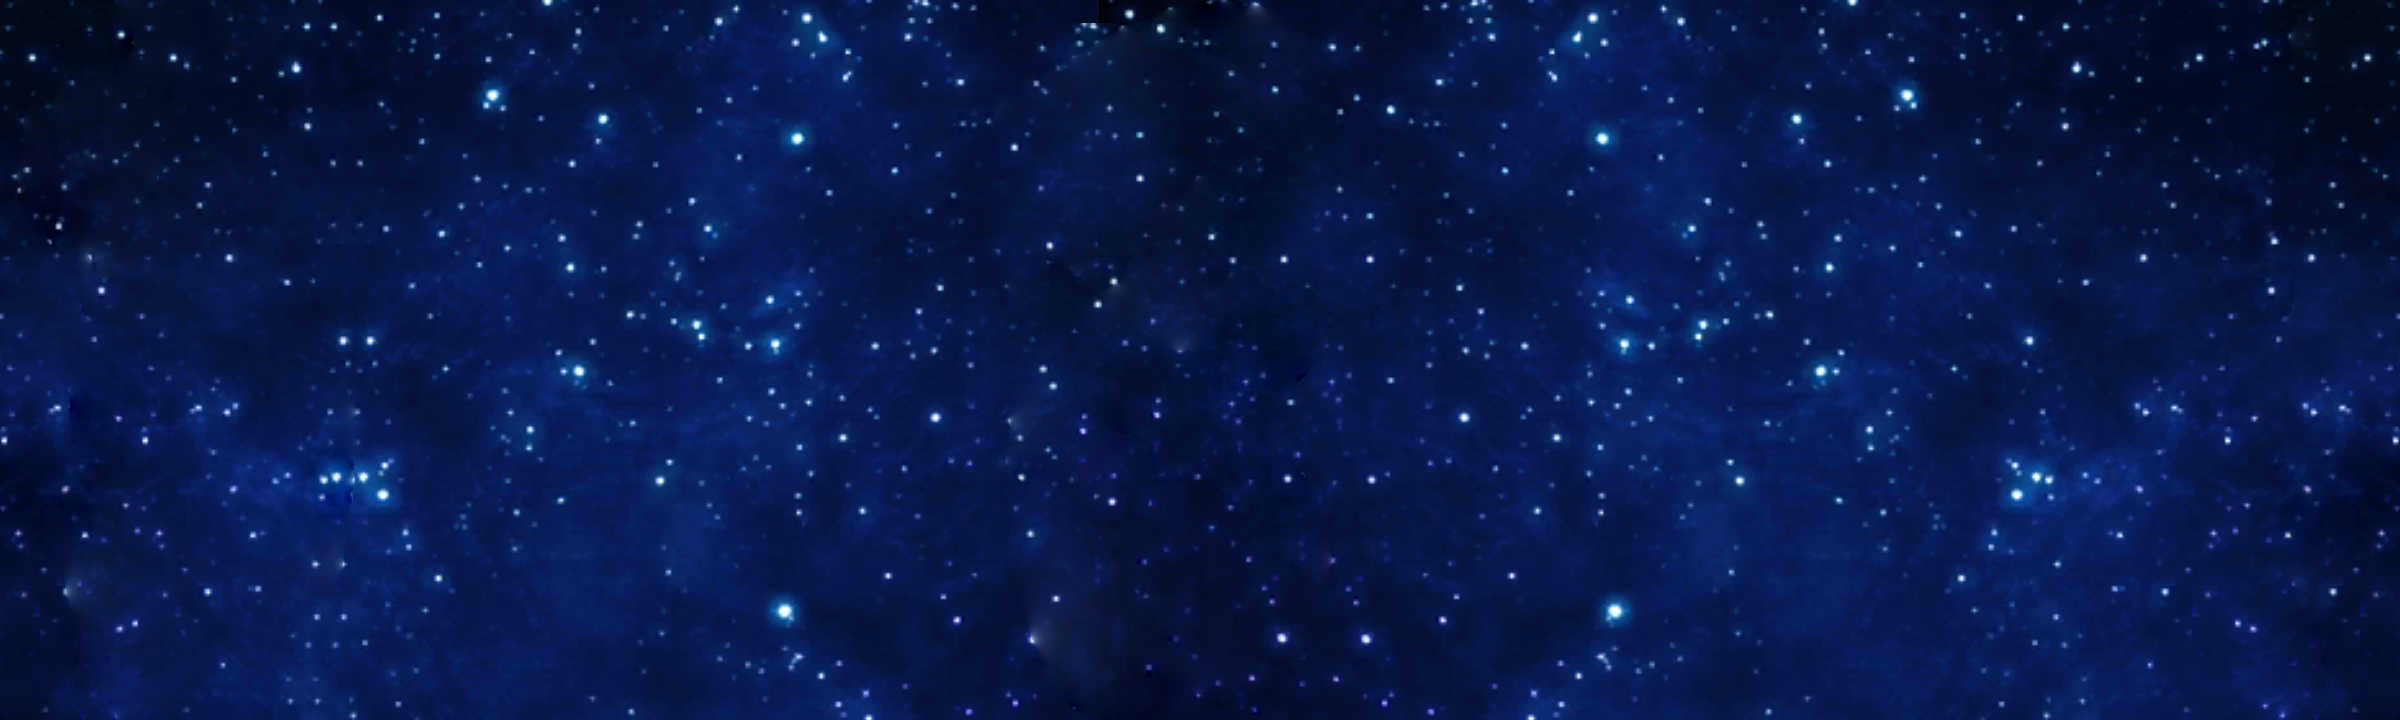
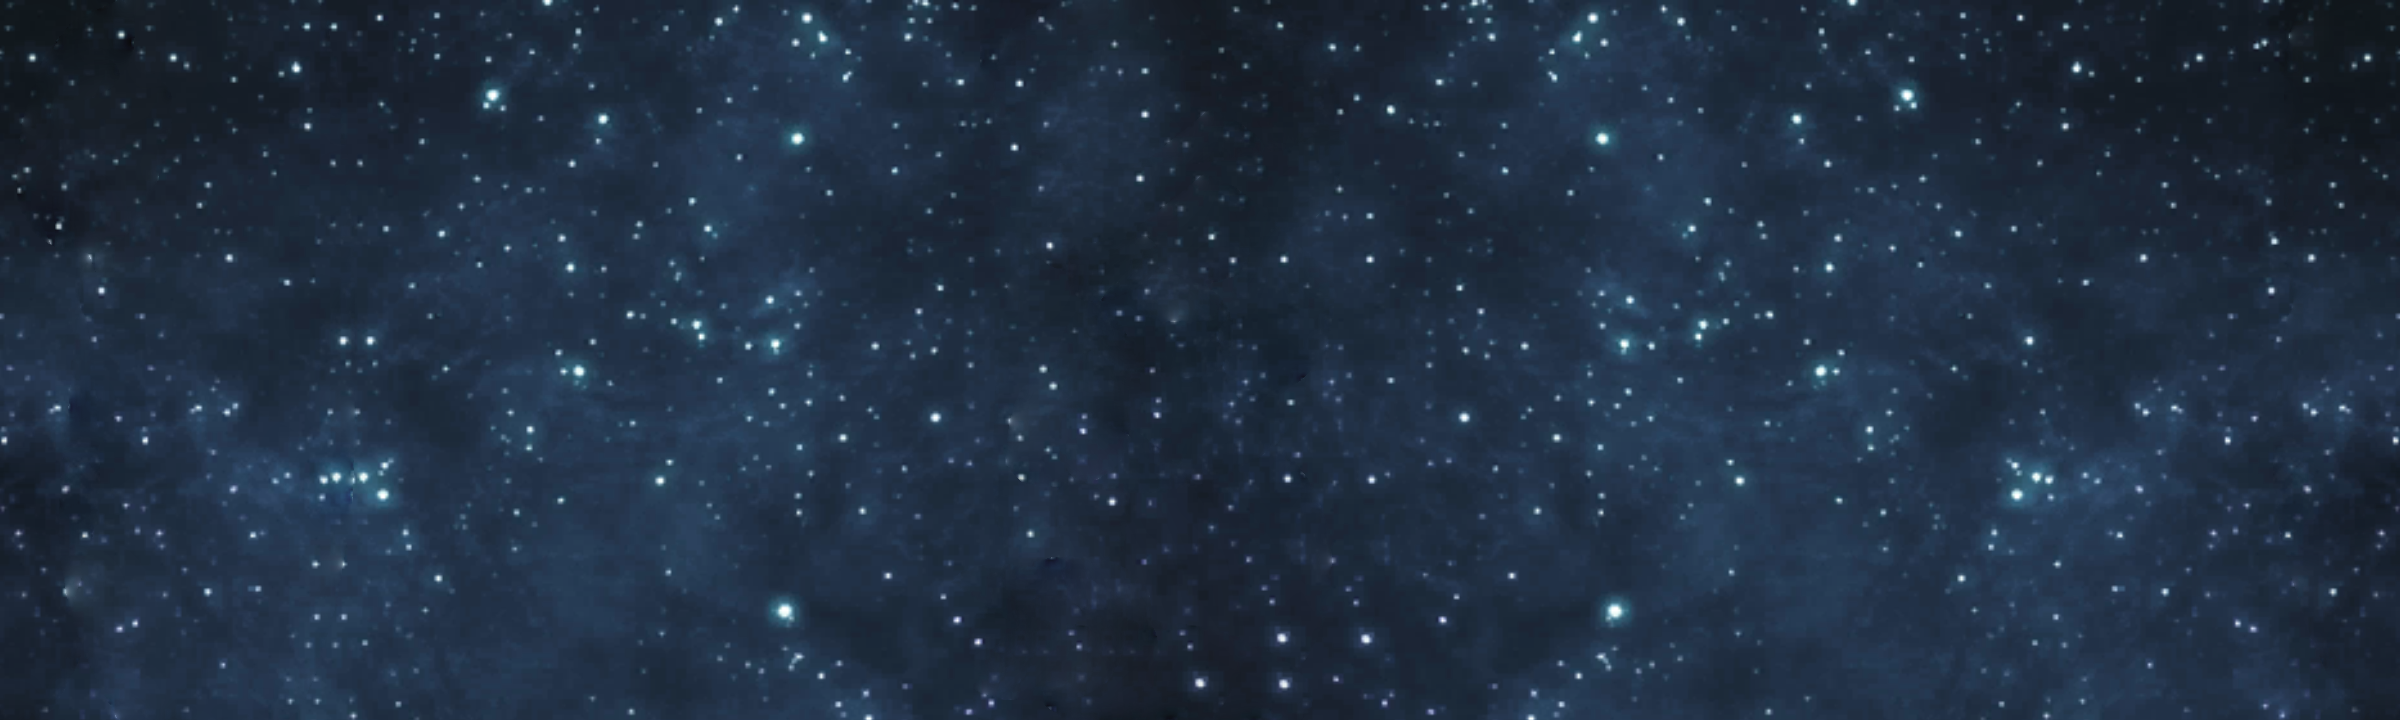
amde background changes + changed the placement of the characters to pixels instead of %

diff --git a/game/script.js b/game/script.js
@@ -28,7 +28,7 @@ let levelcount = 0;
 
 setInterval(function () {
 
-    let speed = 30;
+    let speed = 20;
 
     //Gigachad
     var characterLeft = parseInt(getComputedStyle(character).getPropertyValue("left"));
@@ -50,8 +50,13 @@ setInterval(function () {
     }
 
     if (speed < 20 + (levelcount * 3)) {
-        character.style.left = (characterLeft + (speed - 20)) + "px";
-        characterLeft = (characterLeft + (speed - 20));
+        if (characterLeft <= 5){
+            character.style.left = 5;
+        }
+        else {
+            character.style.left = (characterLeft + (speed - 20)) + "px";
+            characterLeft = (characterLeft + (speed - 20));
+        }    
     }
 
     //herkent het aantal px niet
@@ -115,11 +120,11 @@ class Layer {
     }
 }
 
-const layer1 = new Layer(backgroundLayer1, 0.5);
-const layer2 = new Layer(backgroundLayer2, 0.5);
+const layer1 = new Layer(backgroundLayer1, 0);
+const layer2 = new Layer(backgroundLayer2, 0.4);
 const layer3 = new Layer(backgroundLayer3, 0.5);
-const layer4 = new Layer(backgroundLayer4, 0.5);
-const layer5 = new Layer(backgroundLayer5, 1);
+const layer4 = new Layer(backgroundLayer4, 0.8);
+const layer5 = new Layer(backgroundLayer5, 1.1);
 
 const gameObjects = [layer1, layer2, layer3, layer4, layer5];
 

diff --git a/game/style.css b/game/style.css
@@ -18,8 +18,11 @@ body {
 }
 
 #game{
-    width: 99%;
-    height: 99%;
+    width: 800px;
+    height: 700px;
+    transform: translate(-50%, -50%);
+    top: 50%;
+    left: 50%;
     margin: auto;
     overflow: hidden;
     position: absolute;
@@ -29,10 +32,10 @@ body {
 #character {
     width: 100px;
     height: 100px;
-    top: 69%;
-    left: 34%;
+    top: 490px;
+    left: 5px;
     position: absolute;
-    overflow: hidden;
+
 }
 
 @keyframes block{
@@ -41,8 +44,8 @@ body {
 }
 
 #animal {
-    top: 71.7%;
-    left: 63%;
+    top: 511px;
+    left: 86.2%;
     width: 100px;
     height: 100px;
     position: relative;
